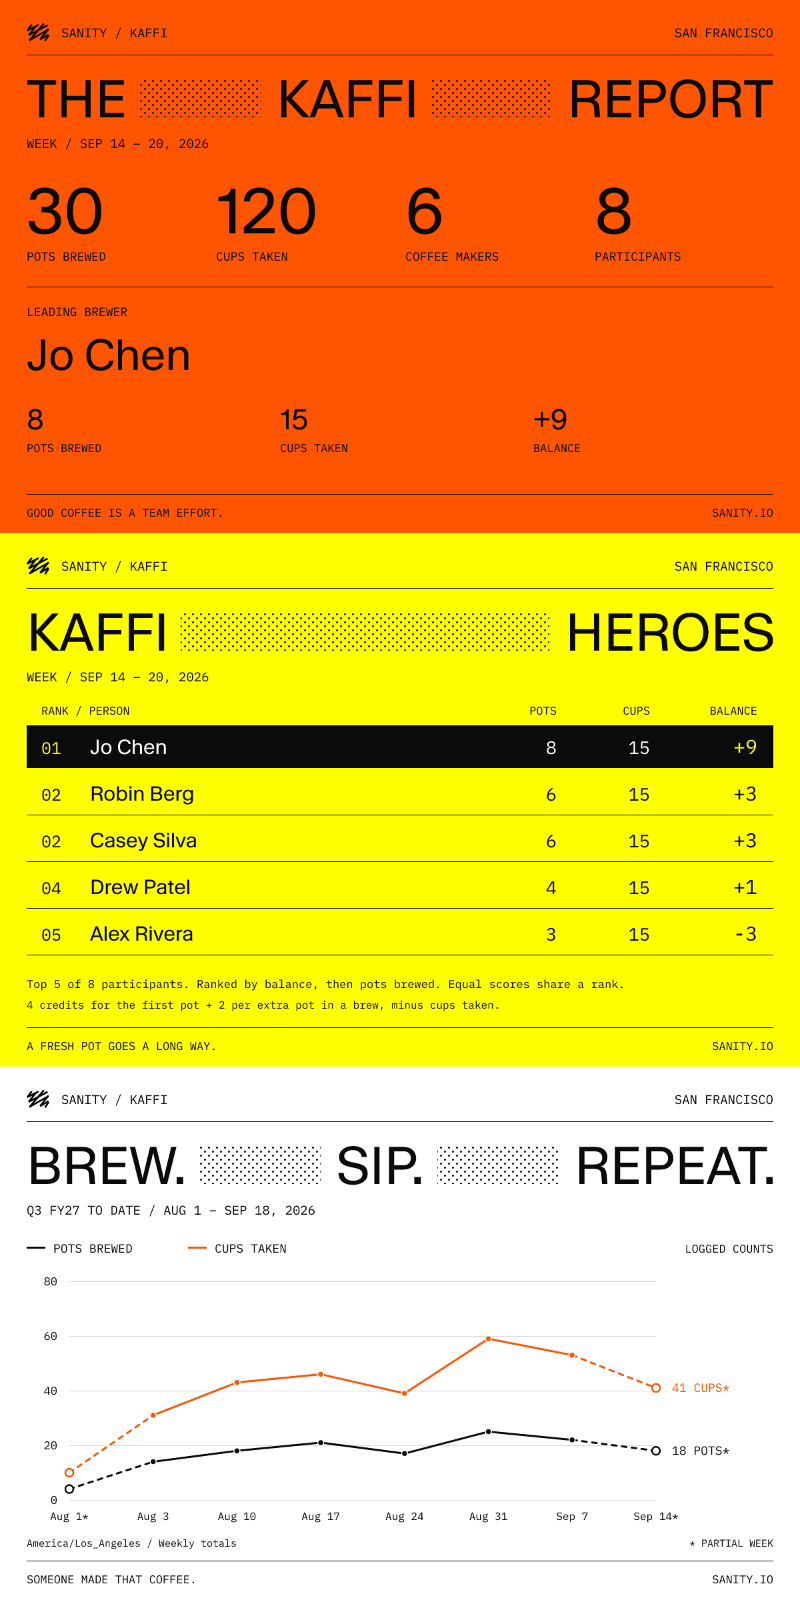
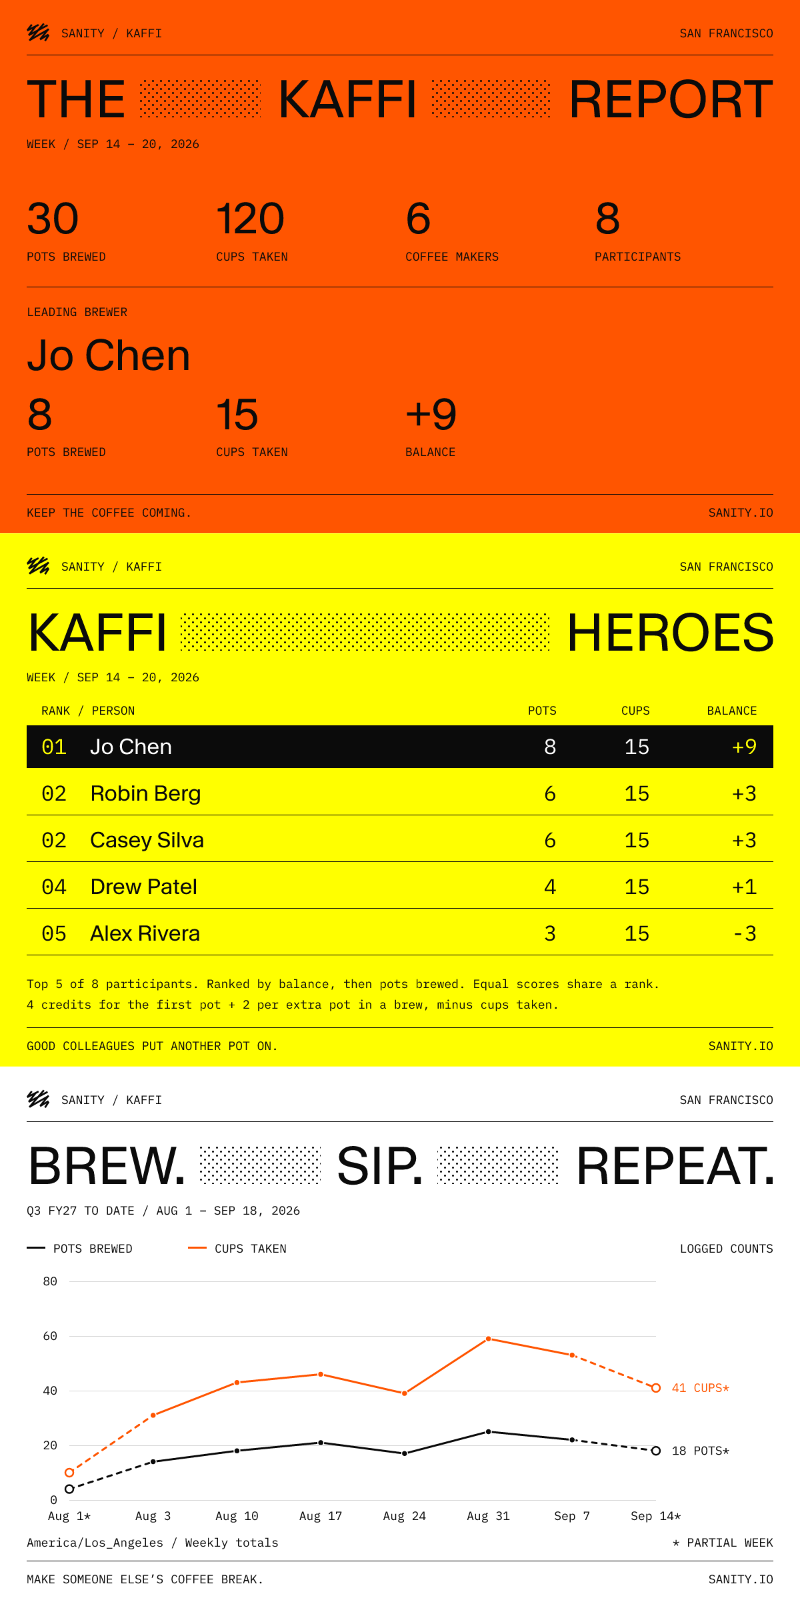
fix: simplify typography across Kaffi reports

diff --git a/apps/kaffi/reports/coffee-images.ts b/apps/kaffi/reports/coffee-images.ts
@@ -13,6 +13,7 @@ const YELLOW = "#ffff00";
 const WHITE = "#ffffff";
 const FONT = "KMR Waldenburg";
 const MONO = "IBM Plex Mono";
+const TYPE = { headline: 78, value: 64, body: 32, label: 18 };
 const font = {
   loadSystemFonts: false,
   fontFiles: ["waldenburg-normal.ttf", "ibm-plex-mono-regular.ttf"].map(
@@ -64,24 +65,29 @@ function text(
     mono?: boolean;
     align?: "start" | "end" | "middle";
     width?: number;
+    truncate?: boolean;
   } = {},
 ) {
   const family = options.mono ? MONO : FONT;
   let label = String(value);
   const measure = (content: string) => textWidth(content, size, family);
-  if (options.width) {
+  const width = options.width;
+  if (width) {
     const measured = measure(label);
-    if (measured > options.width) {
-      size = Math.max(Math.min(size, 24), (size * options.width) / measured);
-      if (measure(label) > options.width) {
+    if (measured > width) {
+      if (!options.truncate)
+        size =
+          Object.values(TYPE).find(
+            (candidate) =>
+              candidate <= size && textWidth(label, candidate, family) <= width,
+          ) ?? TYPE.label;
+      if (measure(label) > width) {
         const characters = Array.from(label);
         let low = 0,
           high = characters.length;
         while (low < high) {
           const middle = Math.ceil((low + high) / 2);
-          if (
-            measure(characters.slice(0, middle).join("") + "…") <= options.width
-          )
+          if (measure(characters.slice(0, middle).join("") + "…") <= width)
             low = middle;
           else high = middle - 1;
         }
@@ -111,13 +117,13 @@ function signed(value: number) {
 
 function headline(title: string) {
   const words = title.split(" ");
-  const widths = words.map((word) => textWidth(word, 78, FONT));
+  const widths = words.map((word) => textWidth(word, TYPE.headline, FONT));
   const gap =
     (1120 - widths.reduce((sum, width) => sum + width, 0)) / (words.length - 1);
   let x = 40;
   return words
     .map((word, i) => {
-      const label = text(word, x, 176, 78);
+      const label = text(word, x, 176, TYPE.headline);
       x += widths[i];
       const spacer =
         i < words.length - 1
@@ -141,15 +147,15 @@ function frame(
     <defs><pattern id="dots" width="12" height="12" patternUnits="userSpaceOnUse"><circle cx="1.5" cy="1.5" r="1.5" fill="${INK}"/><circle cx="7.5" cy="7.5" r="1.5" fill="${INK}"/></pattern></defs>
     ${rect(0, 0, WIDTH, HEIGHT, background)}
     <g transform="translate(40 31) scale(2.3)">${symbol}</g>
-    ${text("SANITY / KAFFI", 92, 56, 19, { mono: true })}
-    ${text(report.office.toUpperCase(), 1160, 56, 19, { mono: true, align: "end", width: 560 })}
+    ${text("SANITY / KAFFI", 92, 56, TYPE.label, { mono: true })}
+    ${text(report.office.toUpperCase(), 1160, 56, TYPE.label, { mono: true, align: "end", width: 560 })}
     ${rule(82)}
     ${headline(title)}
-    ${text(`${report.periodLabel}${report.toDate ? " TO DATE" : ""} / ${report.dateLabel.toUpperCase()}`, 40, 222, 19, { mono: true })}
+    ${text(`${report.periodLabel}${report.toDate ? " TO DATE" : ""} / ${report.dateLabel.toUpperCase()}`, 40, 222, TYPE.label, { mono: true })}
     ${content}
     ${rule(741)}
-    ${text(nextFooter().toUpperCase(), 40, 775, 17, { mono: true, width: 980 })}
-    ${text("SANITY.IO", 1160, 775, 17, { mono: true, align: "end" })}
+    ${text(nextFooter().toUpperCase(), 40, 775, TYPE.label, { mono: true, width: 980 })}
+    ${text("SANITY.IO", 1160, 775, TYPE.label, { mono: true, align: "end" })}
   </svg>`;
   return new Resvg(svg, { font }).render().asPng();
 }
@@ -177,10 +183,10 @@ export function renderCoffeeSummary(report: CoffeeReport): Buffer {
         tied ? "LEADING BREWER / TIED FOR FIRST" : "LEADING BREWER",
         40,
         474,
-        18,
+        TYPE.label,
         { mono: true },
       ) +
-      text(top.name, 40, 555, 64, { width: 1120 }) +
+      text(top.name, 40, 555, TYPE.value, { width: 1120, truncate: true }) +
       [
         [number.format(top.pots), "POTS BREWED"],
         [number.format(top.cups), "CUPS TAKEN"],
@@ -188,18 +194,18 @@ export function renderCoffeeSummary(report: CoffeeReport): Buffer {
       ]
         .map(
           ([value, label], i) =>
-            text(value, 40 + i * 380, 644, 42, { width: 320 }) +
-            text(label, 40 + i * 380, 678, 17, { mono: true }),
+            text(value, 40 + i * 284, 644, TYPE.value, { width: 248 }) +
+            text(label, 40 + i * 284, 684, TYPE.label, { mono: true }),
         )
         .join("")
-    : text("EVERY GOOD DAY STARTS WITH A POT.", 40, 476, 18, {
+    : text("EVERY GOOD DAY STARTS WITH A POT.", 40, 476, TYPE.label, {
         mono: true,
       }) +
       text(
         report.participants ? "Who's brewing next?" : "A fresh start.",
         40,
         565,
-        64,
+        TYPE.value,
         { width: 1000 },
       ) +
       text(
@@ -208,7 +214,8 @@ export function renderCoffeeSummary(report: CoffeeReport): Buffer {
           : "No coffee activity recorded for this period.",
         40,
         620,
-        22,
+        TYPE.label,
+        { mono: true },
       );
   return frame(
     report,
@@ -217,8 +224,9 @@ export function renderCoffeeSummary(report: CoffeeReport): Buffer {
     stats
       .map(
         ([value, label], i) =>
-          text(number.format(value), 40 + i * 284, 350, 94, { width: 248 }) +
-          text(label, 40 + i * 284, 391, 18, { mono: true }),
+          text(number.format(value), 40 + i * 284, 350, TYPE.value, {
+            width: 248,
+          }) + text(label, 40 + i * 284, 391, TYPE.label, { mono: true }),
       )
       .join("") +
       rule(430) +
@@ -254,7 +262,7 @@ export function renderCoffeeTrend(report: CoffeeReport): Buffer {
     const baseline = bottom - (i * height) / 4;
     return (
       rect(left, baseline, width, 1, "#d6d6d6") +
-      text(number.format(i * step), left - 18, baseline + 6, 17, {
+      text(number.format(i * step), left - 18, baseline + 6, TYPE.label, {
         mono: true,
         align: "end",
         width: 68,
@@ -284,9 +292,16 @@ export function renderCoffeeTrend(report: CoffeeReport): Buffer {
       const last = points.at(-1);
       if (!last) return "";
       const other = key === "pots" ? "cups" : "pots";
+      const labelCenter = Math.min(
+        bottom - TYPE.label,
+        Math.max(
+          bottom - height + TYPE.label,
+          (y(last.pots) + y(last.cups)) / 2,
+        ),
+      );
       const labelY =
-        Math.abs(y(last[key]) - y(last[other])) < 34
-          ? y(last[key]) + (key === "cups" ? -17 : 17)
+        Math.abs(y(last[key]) - y(last[other])) < TYPE.label * 2
+          ? labelCenter + (key === "cups" ? -TYPE.label : TYPE.label)
           : y(last[key]);
       return (
         segments +
@@ -295,7 +310,7 @@ export function renderCoffeeTrend(report: CoffeeReport): Buffer {
           `${number.format(last[key])} ${key.toUpperCase()}${last.partial ? "*" : ""}`,
           left + width + 24,
           labelY + 6,
-          18,
+          TYPE.label,
           { mono: true, color, width: 148 },
         )
       );
@@ -303,12 +318,13 @@ export function renderCoffeeTrend(report: CoffeeReport): Buffer {
     .join("");
   const labels = points
     .map((point, i) =>
-      i % labelEvery === 0 || i === points.length - 1
+      i === points.length - 1 ||
+      (i % labelEvery === 0 && points.length - 1 - i >= labelEvery)
         ? text(
             point.label + (point.partial ? "*" : ""),
             point.x,
             bottom + 30,
-            16,
+            TYPE.label,
             { mono: true, align: "middle" },
           )
         : "",
@@ -316,10 +332,10 @@ export function renderCoffeeTrend(report: CoffeeReport): Buffer {
     .join("");
   const legend =
     rect(40, 270, 28, 3, INK) +
-    text("POTS BREWED", 80, 279, 18, { mono: true }) +
+    text("POTS BREWED", 80, 279, TYPE.label, { mono: true }) +
     rect(282, 270, 28, 3, ORANGE) +
-    text("CUPS TAKEN", 322, 279, 18, { mono: true }) +
-    text("LOGGED COUNTS", 1160, 279, 17, { mono: true, align: "end" });
+    text("CUPS TAKEN", 322, 279, TYPE.label, { mono: true }) +
+    text("LOGGED COUNTS", 1160, 279, TYPE.label, { mono: true, align: "end" });
   const daily = report.period === "week" || report.period === "month";
   const data = hasActivity
     ? lines
@@ -327,7 +343,7 @@ export function renderCoffeeTrend(report: CoffeeReport): Buffer {
         daily ? "No weekday activity recorded" : "No activity recorded",
         624,
         476,
-        30,
+        TYPE.body,
         { align: "middle" },
       );
   return frame(
@@ -342,11 +358,14 @@ export function renderCoffeeTrend(report: CoffeeReport): Buffer {
         `${report.timeZone} / ${daily ? "Weekdays only" : report.period === "quarter" ? "Weekly totals" : "Monthly totals"}`,
         40,
         720,
-        15,
+        TYPE.label,
         { mono: true },
       ) +
       (report.buckets.some((bucket) => bucket.partial)
-        ? text("* PARTIAL WEEK", 1160, 720, 15, { mono: true, align: "end" })
+        ? text("* PARTIAL WEEK", 1160, 720, TYPE.label, {
+            mono: true,
+            align: "end",
+          })
         : ""),
   );
 }
@@ -366,27 +385,28 @@ export function renderCoffeeLeaderboard(report: CoffeeReport): Buffer {
       const y = 327 + i * 70;
       return (
         (i === 0 ? rect(40, y - 39, 1120, 64, INK) : "") +
-        text(String(rank).padStart(2, "0"), 62, y + 4, 25, {
+        text(String(rank).padStart(2, "0"), 62, y + 4, TYPE.body, {
           mono: true,
           color: i === 0 ? YELLOW : INK,
         }) +
-        text(person.name, 135, y + 4, 30, {
+        text(person.name, 135, y + 4, TYPE.body, {
           color: i === 0 ? WHITE : INK,
           width: 590,
+          truncate: true,
         }) +
-        text(number.format(person.pots), 835, y + 4, 27, {
+        text(number.format(person.pots), 835, y + 4, TYPE.body, {
           mono: true,
           color: i === 0 ? WHITE : INK,
           align: "end",
           width: 100,
         }) +
-        text(number.format(person.cups), 975, y + 4, 27, {
+        text(number.format(person.cups), 975, y + 4, TYPE.body, {
           mono: true,
           color: i === 0 ? WHITE : INK,
           align: "end",
           width: 100,
         }) +
-        text(signed(person.balance), 1136, y + 4, 30, {
+        text(signed(person.balance), 1136, y + 4, TYPE.body, {
           mono: true,
           color: i === 0 ? YELLOW : INK,
           align: "end",
@@ -397,14 +417,14 @@ export function renderCoffeeLeaderboard(report: CoffeeReport): Buffer {
     })
     .join("");
   const headings =
-    text("RANK / PERSON", 62, 272, 17, { mono: true }) +
+    text("RANK / PERSON", 62, 272, TYPE.label, { mono: true }) +
     [
       { title: "POTS", x: 835 },
       { title: "CUPS", x: 975 },
       { title: "BALANCE", x: 1136 },
     ]
       .map(({ title, x }) =>
-        text(title, x, 272, 17, { mono: true, align: "end" }),
+        text(title, x, 272, TYPE.label, { mono: true, align: "end" }),
       )
       .join("");
   const note =
@@ -419,17 +439,23 @@ export function renderCoffeeLeaderboard(report: CoffeeReport): Buffer {
       rows +
       (report.participants
         ? ""
-        : text("No heroes on the board yet. Brew the first pot.", 62, 400, 34, {
-            width: 1060,
-          })) +
+        : text(
+            "No heroes on the board yet. Brew the first pot.",
+            62,
+            400,
+            TYPE.body,
+            {
+              width: 1060,
+            },
+          )) +
       text(
         note +
           "Ranked by balance, then pots brewed. Equal scores share a rank.",
         40,
         682,
-        17,
+        TYPE.label,
         { mono: true, width: 1120 },
       ) +
-      text(BALANCE_RULE, 40, 713, 16, { mono: true, width: 1120 }),
+      text(BALANCE_RULE, 40, 713, TYPE.label, { mono: true, width: 1120 }),
   );
 }
